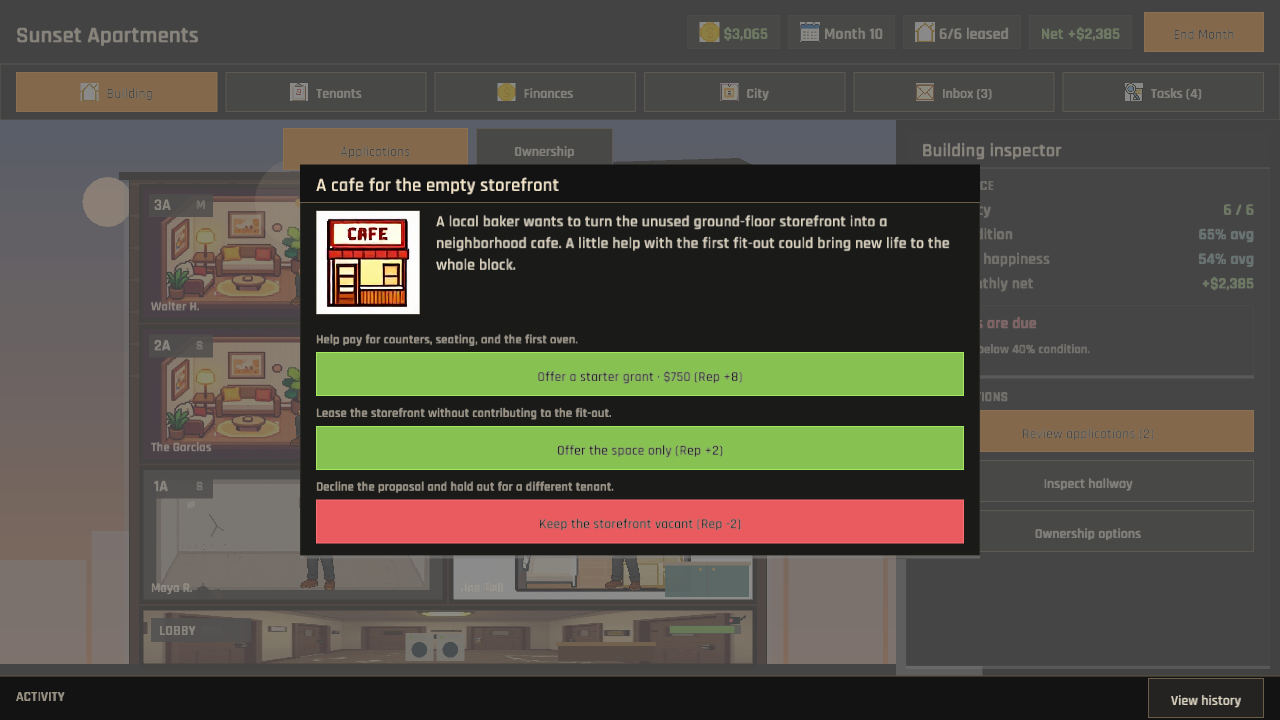
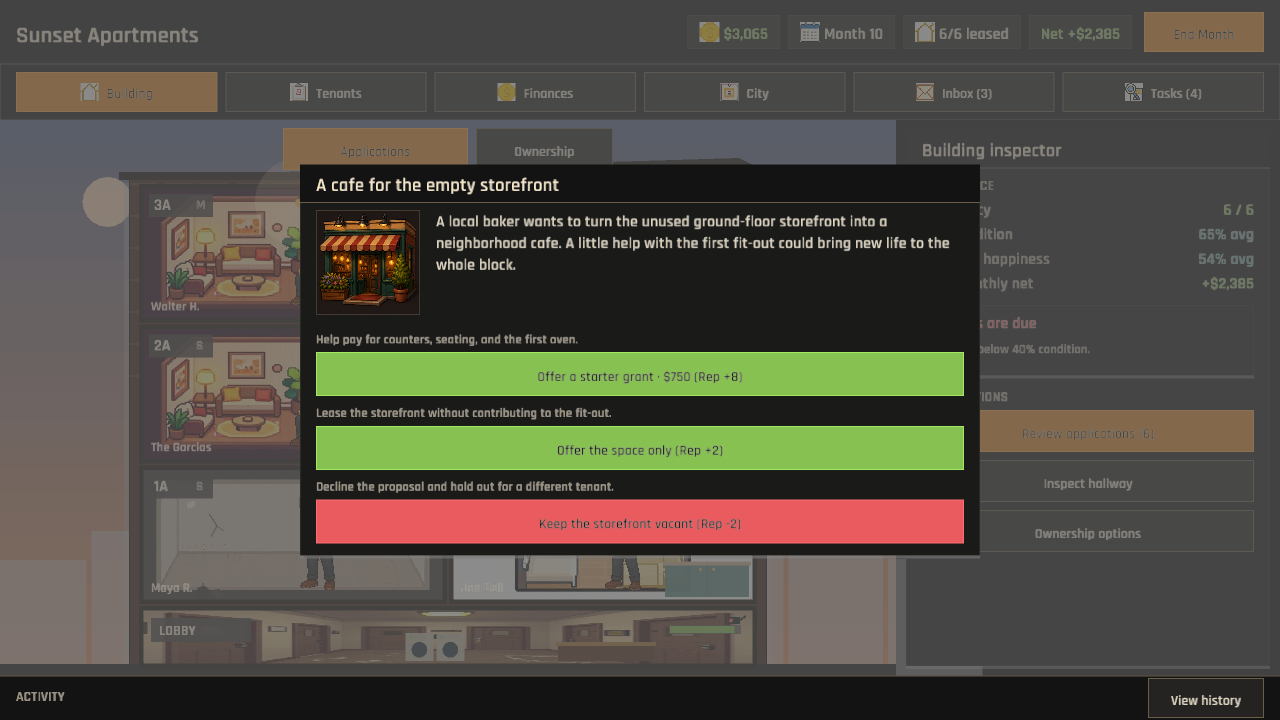
Every turn of the building's story now shares one illustrated noticeboard (event atlas and narrow overlay verification)
Replace the mixed event illustration set at runtime with a cohesive generated 3x3 atlas for rent, arrivals, departures, noise, plumbing, inspections, weather, neighborhood openings, and developer offers. Route both narrative modals and the activity ledger through one crop-aware renderer while retaining the original individual textures as fallbacks.

Register explicit 640x480 capture aliases for pause, history, tutorial, event, notice, and notification states so unknown scene names can no longer silently masquerade as valid overlay evidence. Keep the resulting narrow verification captures beside their desktop counterparts.

Verified with 133 passing tests (1 ignored), desktop and 640x480 event/notice/history captures plus narrow pause/tutorial/notification checks, formatting, JSON and Rust line-count validation, and publish.ps1 for Windows, WebGL, and preview deployment.

Changed region(s): [[0.25, 0.275, 0.3438, 0.4583]]

diff --git a/src/game.rs b/src/game.rs
@@ -166,13 +166,13 @@ impl Game {
                     state.requests_page = 1;
                 }
             }
-            "pause_showcase" | "pause_compact" => {
+            "pause_showcase" | "pause_compact" | "pause_tiny" => {
                 self.seed_gameplay_capture(true);
                 if let GameState::Gameplay(state) = &mut self.state {
                     state.show_pause_menu = true;
                 }
             }
-            "history_showcase" | "history_compact" => {
+            "history_showcase" | "history_compact" | "history_tiny" => {
                 self.seed_gameplay_capture(true);
                 if let GameState::Gameplay(state) = &mut self.state {
                     seed_showcase_activity(state);
@@ -192,28 +192,28 @@ impl Game {
                     state.career_badges_page = 1;
                 }
             }
-            "tutorial_showcase" | "tutorial_compact" | "tutorial_wide" => {
+            "tutorial_showcase" | "tutorial_compact" | "tutorial_wide" | "tutorial_tiny" => {
                 self.seed_gameplay_capture(false)
             }
-            "tutorial_coach_showcase" | "tutorial_coach_compact" => {
+            "tutorial_coach_showcase" | "tutorial_coach_compact" | "tutorial_coach_tiny" => {
                 self.seed_gameplay_capture(false);
                 if let GameState::Gameplay(state) = &mut self.state {
                     state.tutorial.pending_messages.clear();
                 }
             }
-            "event_showcase" | "event_compact" => {
+            "event_showcase" | "event_compact" | "event_tiny" => {
                 self.seed_gameplay_capture(true);
                 if let GameState::Gameplay(state) = &mut self.state {
                     seed_showcase_event(state);
                 }
             }
-            "event_notice_showcase" | "event_notice_compact" => {
+            "event_notice_showcase" | "event_notice_compact" | "event_notice_tiny" => {
                 self.seed_gameplay_capture(true);
                 if let GameState::Gameplay(state) = &mut self.state {
                     seed_showcase_notice(state);
                 }
             }
-            "notification_showcase" | "notification_compact" => {
+            "notification_showcase" | "notification_compact" | "notification_tiny" => {
                 self.seed_gameplay_capture(true);
                 if let GameState::Gameplay(state) = &mut self.state {
                     state.notifications.pending.push(

diff --git a/src/ui/event_art.rs b/src/ui/event_art.rs
@@ -1,0 +1,63 @@
+//! Shared 3x3 event-atlas rendering for modals and the activity ledger.
+
+use macroquad::prelude::*;
+
+use crate::assets::AssetManager;
+
+fn event_tile(id: &str) -> Option<(f32, f32)> {
+    Some(match id {
+        "event_rent_collected" => (0.0, 0.0),
+        "event_tenant_moved_in" => (1.0, 0.0),
+        "event_tenant_moved_out" => (2.0, 0.0),
+        "event_noise_complaint" => (0.0, 1.0),
+        "event_pipe_burst" => (1.0, 1.0),
+        "event_inspection" => (2.0, 1.0),
+        "event_heatwave" => (0.0, 2.0),
+        "event_new_business" => (1.0, 2.0),
+        "event_developer_offer" => (2.0, 2.0),
+        _ => return None,
+    })
+}
+
+pub fn has_event_art(id: &str, assets: &AssetManager) -> bool {
+    (assets.get_texture("event_atlas").is_some() && event_tile(id).is_some())
+        || assets.get_texture(id).is_some()
+}
+
+pub fn draw_event_art(id: &str, rect: Rect, assets: &AssetManager) -> bool {
+    if let (Some(texture), Some((column, row))) =
+        (assets.get_texture("event_atlas"), event_tile(id))
+    {
+        let tile_w = texture.width() / 3.0;
+        let tile_h = texture.height() / 3.0;
+        draw_texture_ex(
+            texture,
+            rect.x,
+            rect.y,
+            WHITE,
+            DrawTextureParams {
+                dest_size: Some(vec2(rect.w, rect.h)),
+                source: Some(Rect::new(column * tile_w, row * tile_h, tile_w, tile_h)),
+                ..Default::default()
+            },
+        );
+        true
+    } else if let Some(texture) = assets.get_texture(id) {
+        draw_texture_ex(
+            texture,
+            rect.x,
+            rect.y,
+            WHITE,
+            DrawTextureParams {
+                dest_size: Some(vec2(rect.w, rect.h)),
+                ..Default::default()
+            },
+        );
+        true
+    } else {
+        false
+    }
+}
+
+#[cfg(test)]
+mod tests;

diff --git a/src/ui/event_modal.rs b/src/ui/event_modal.rs
@@ -13,13 +13,10 @@ pub fn draw_event_modal(event: &NarrativeEvent, assets: &AssetManager) -> Option
     draw_rectangle(0., 0., screen_w, screen_h, Color::new(0., 0., 0., 0.6));
 
     let modal_w = (screen_w * 0.55).clamp(480.0, 680.0);
-    let illustration = assets.get_texture(event_texture_id(&event.event_type));
-    let art_size = if illustration.is_some() { 104.0 } else { 0.0 };
-    let art_gap = if illustration.is_some() {
-        space::LG
-    } else {
-        0.0
-    };
+    let illustration_id = event_texture_id(&event.event_type);
+    let has_illustration = crate::ui::event_art::has_event_art(illustration_id, assets);
+    let art_size = if has_illustration { 104.0 } else { 0.0 };
+    let art_gap = if has_illustration { space::LG } else { 0.0 };
     let content_w = modal_w - space::PAD * 2.0 - art_size - art_gap;
 
     let body_lines = wrap(&event.description, content_w, scale::BODY);
@@ -42,16 +39,11 @@ pub fn draw_event_modal(event: &NarrativeEvent, assets: &AssetManager) -> Option
 
     let content = draw_panel(Rect::new(x, y, modal_w, modal_h), &event.headline);
 
-    if let Some(texture) = illustration {
-        draw_texture_ex(
-            texture,
-            content.x,
-            content.y,
-            WHITE,
-            DrawTextureParams {
-                dest_size: Some(vec2(art_size, art_size)),
-                ..Default::default()
-            },
+    if has_illustration {
+        crate::ui::event_art::draw_event_art(
+            illustration_id,
+            Rect::new(content.x, content.y, art_size, art_size),
+            assets,
         );
         draw_rectangle_lines(
             content.x,

diff --git a/src/ui/notifications.rs b/src/ui/notifications.rs
@@ -134,18 +134,21 @@ fn draw_event_icon(event: &GameEvent, rect: Rect, assets: &AssetManager) -> bool
         GameEvent::MonthEnd { .. } => "icon_calendar",
         _ => return false,
     };
-    let Some(texture) = assets.get_texture(id) else {
-        return false;
-    };
-    draw_texture_ex(
-        texture,
-        rect.x,
-        rect.y,
-        WHITE,
-        DrawTextureParams {
-            dest_size: Some(vec2(rect.w, rect.h)),
-            ..Default::default()
-        },
-    );
-    true
+    if id.starts_with("event_") {
+        crate::ui::event_art::draw_event_art(id, rect, assets)
+    } else if let Some(texture) = assets.get_texture(id) {
+        draw_texture_ex(
+            texture,
+            rect.x,
+            rect.y,
+            WHITE,
+            DrawTextureParams {
+                dest_size: Some(vec2(rect.w, rect.h)),
+                ..Default::default()
+            },
+        );
+        true
+    } else {
+        false
+    }
 }

diff --git a/src/ui/event_art/tests.rs b/src/ui/event_art/tests.rs
@@ -1,0 +1,21 @@
+use super::*;
+
+#[test]
+fn every_shipped_event_scene_has_a_unique_atlas_cell() {
+    let ids = [
+        "event_rent_collected",
+        "event_tenant_moved_in",
+        "event_tenant_moved_out",
+        "event_noise_complaint",
+        "event_pipe_burst",
+        "event_inspection",
+        "event_heatwave",
+        "event_new_business",
+        "event_developer_offer",
+    ];
+    let mut cells = ids.map(event_tile).to_vec();
+    cells.sort_by(|left, right| left.partial_cmp(right).unwrap());
+    cells.dedup();
+    assert_eq!(cells.len(), ids.len());
+    assert!(!cells.contains(&None));
+}

diff --git a/src/assets.rs b/src/assets.rs
@@ -87,6 +87,7 @@ impl AssetManager {
             "happiness_unhappy",
             "happiness_miserable",
             // Events
+            "event_atlas",
             "event_rent_collected",
             "event_tenant_moved_in",
             "event_tenant_moved_out",
@@ -128,6 +129,7 @@ impl AssetManager {
                             | "property_facades"
                             | "staff_portraits"
                             | "achievement_emblems"
+                            | "event_atlas"
                     ) {
                     FilterMode::Linear
                 } else {

diff --git a/src/ui.rs b/src/ui.rs
@@ -18,6 +18,7 @@ pub mod career_summary;
 pub mod city_view; // Phase 3 city map
 mod city_view_widgets;
 mod common;
+mod event_art;
 pub mod event_modal; // Phase 4 event modal
 mod hallway_panel;
 mod header;
